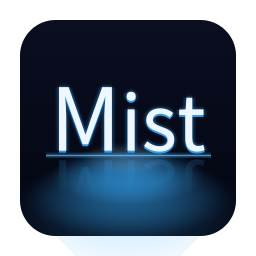
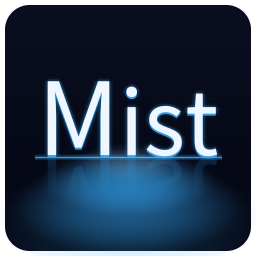
Remove misleading lrzsz build warning from vendored zmodem2.
Local rz/sz is only for zmodem2 integration tests; Mist builds and runs without it. Refresh app icon preview PNG.

diff --git a/vendor/zmodem2/build.rs b/vendor/zmodem2/build.rs
@@ -18,7 +18,9 @@ fn main() {
             println!("cargo:rustc-env=ZMODEM_SZ_BIN={}", sz_path.display());
         }
         _ => {
-            println!("cargo:warning=lrzsz not found");
+            // lrzsz on PATH is optional: only enables `#[cfg(has_lrzsz)]` integration tests
+            // in this crate. MistTerm uses the Rust zmodem2 library at runtime and does not
+            // require a local rz/sz install to build or run.
         }
     }
 }